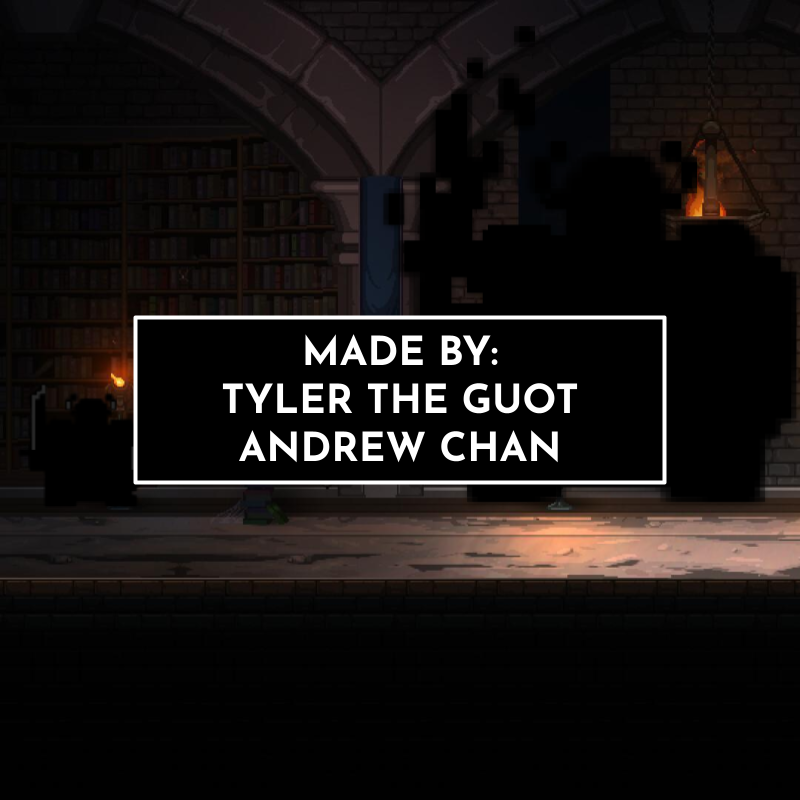
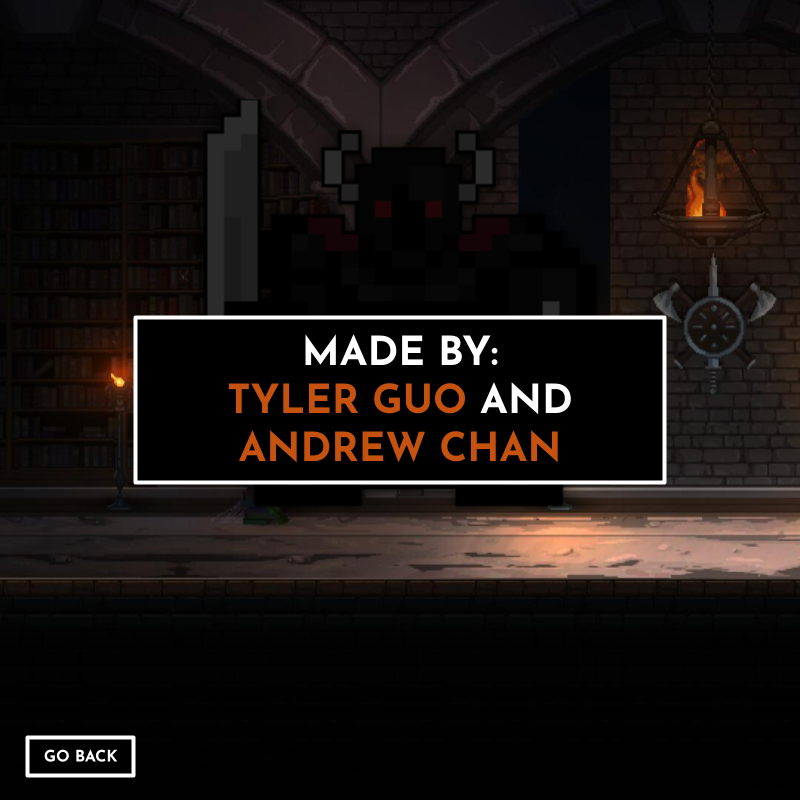
Added credits and help menu screen

diff --git a/Sketch1.java b/Sketch1.java
@@ -45,7 +45,7 @@ public class Sketch1 extends PApplet {
   ArrayList <beam> beams = new ArrayList <beam>();
  
   PImage [] player = new PImage[8];
-  PImage [] menuScreen = new PImage[6];
+  PImage [] menuScreen = new PImage[8];
  
   /**
    * Called once at the beginning of execution, put your size all in this method
@@ -73,6 +73,8 @@ public class Sketch1 extends PApplet {
     menuScreen[3] = loadImage("credits_highlight.png");
     menuScreen[4] = loadImage("credits.png");
     menuScreen[5] = loadImage("help.png");
+    menuScreen[6] = loadImage("credits_coloured.png");
+    menuScreen[7] = loadImage("help_coloured.png");
  
     player[0] = loadImage("Gardevoir_Up.png");
     player[1] = loadImage("Gardevoir_Down.png");
@@ -95,19 +97,26 @@ public class Sketch1 extends PApplet {
  
     if (startGame == false) {
 
+      if (mousePressed) {
+        System.out.println("MouseX: " + mouseX + "\nMouseY: " +  mouseY);
+      }
+
+      // go back hit box: X: 26, Y: 735, END POINT X: 133, END POINT Y: 776
       if (credits) {
         image(menuScreen[4], 0 ,0 );
-        if (keyPressed) {
-          if (keyCode == LEFT) {
+        if (mouseX >= 26 && mouseX <= 133 && mouseY >= 735 && mouseY <= 776) {
+          image(menuScreen[6], 0, 0);
+          if (mousePressed) {
             credits ^= true;
-
           }
+
         }
       }
       if (help) {
         image(menuScreen[5], 0, 0);
-        if (keyPressed) {
-          if (keyCode == LEFT) {
+        if (mouseX >= 26 && mouseX <= 133 && mouseY >= 735 && mouseY <= 776) {
+          image(menuScreen[7], 0, 0);
+          if (mousePressed) {
             help ^= true;
           }
         }

diff --git a/Main.java b/Main.java
@@ -10,8 +10,8 @@ class Main {
     
     String[] processingArgs = {"MySketch"};
 	//   Sketch mySketch = new Sketch();  //comment this out to run the other sketch files
-	//  Sketch1 mySketch = new Sketch1();  // uncomment this to run this sketch file
-	Sketch2 mySketch = new Sketch2();  // uncomment this to run this sketch file
+	  Sketch1 mySketch = new Sketch1();  // uncomment this to run this sketch file
+	//Sketch2 mySketch = new Sketch2();  // uncomment this to run this sketch file
 	  
 	  PApplet.runSketch(processingArgs, mySketch);
   }
